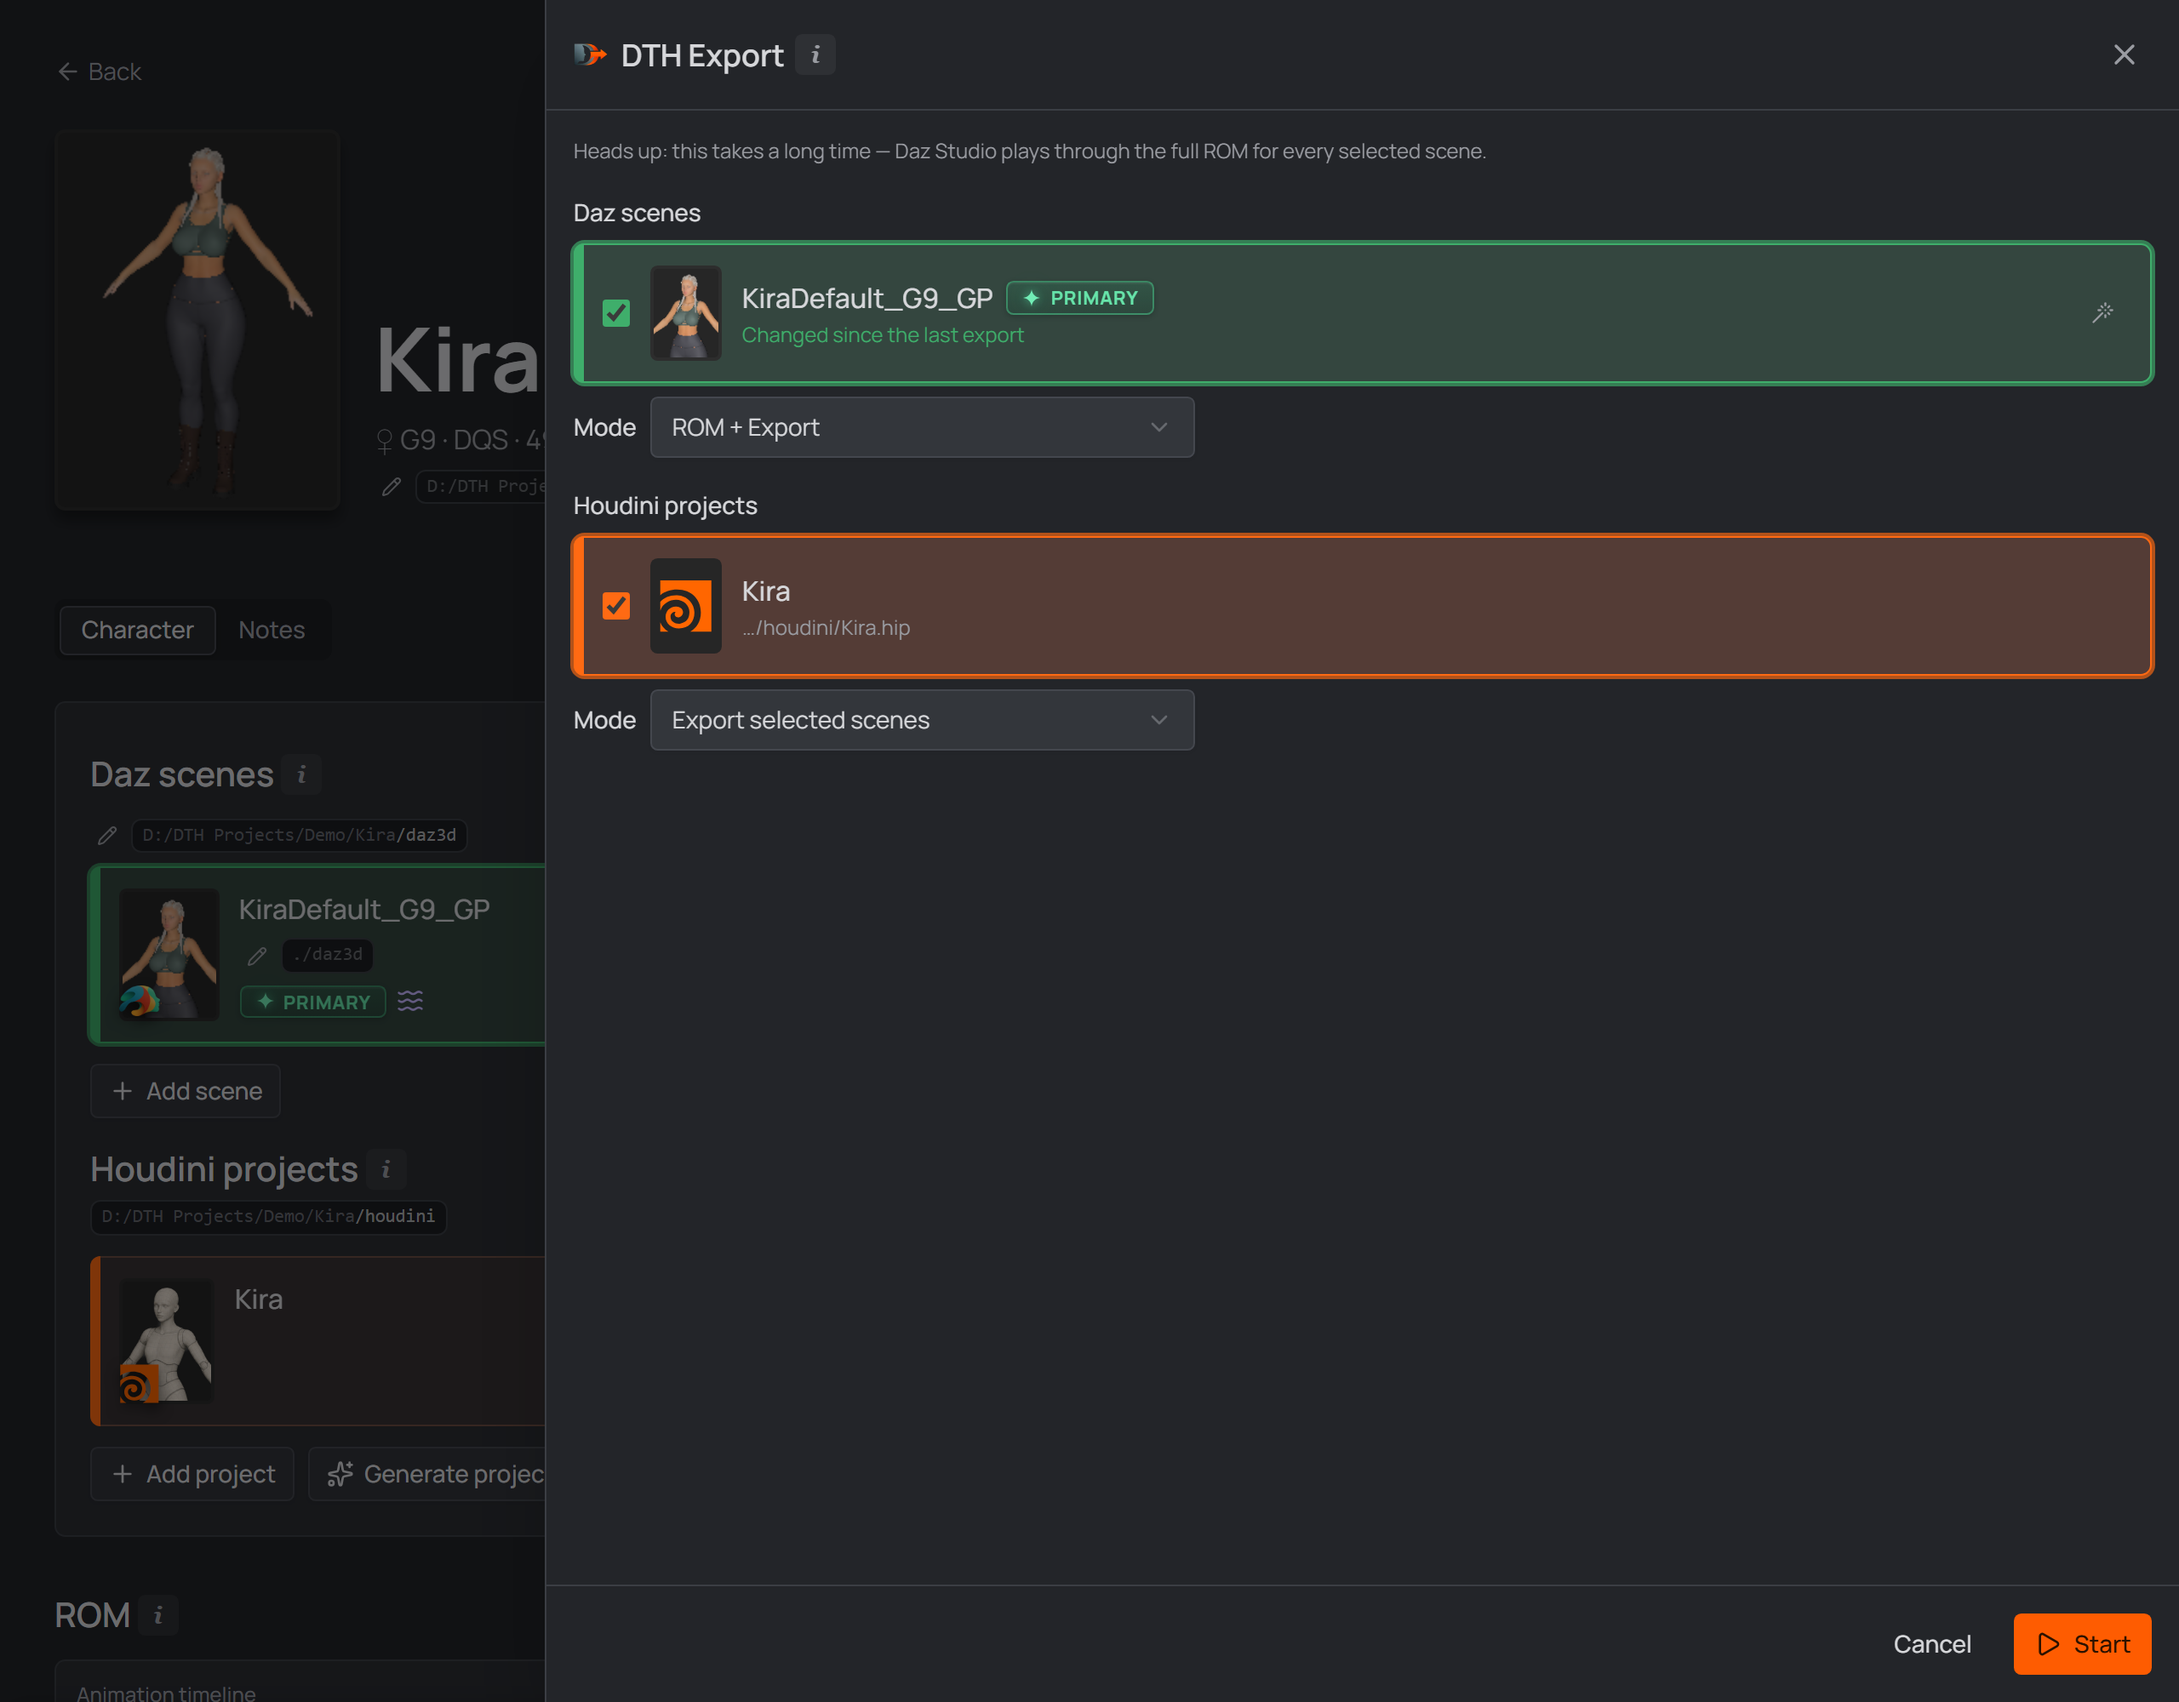
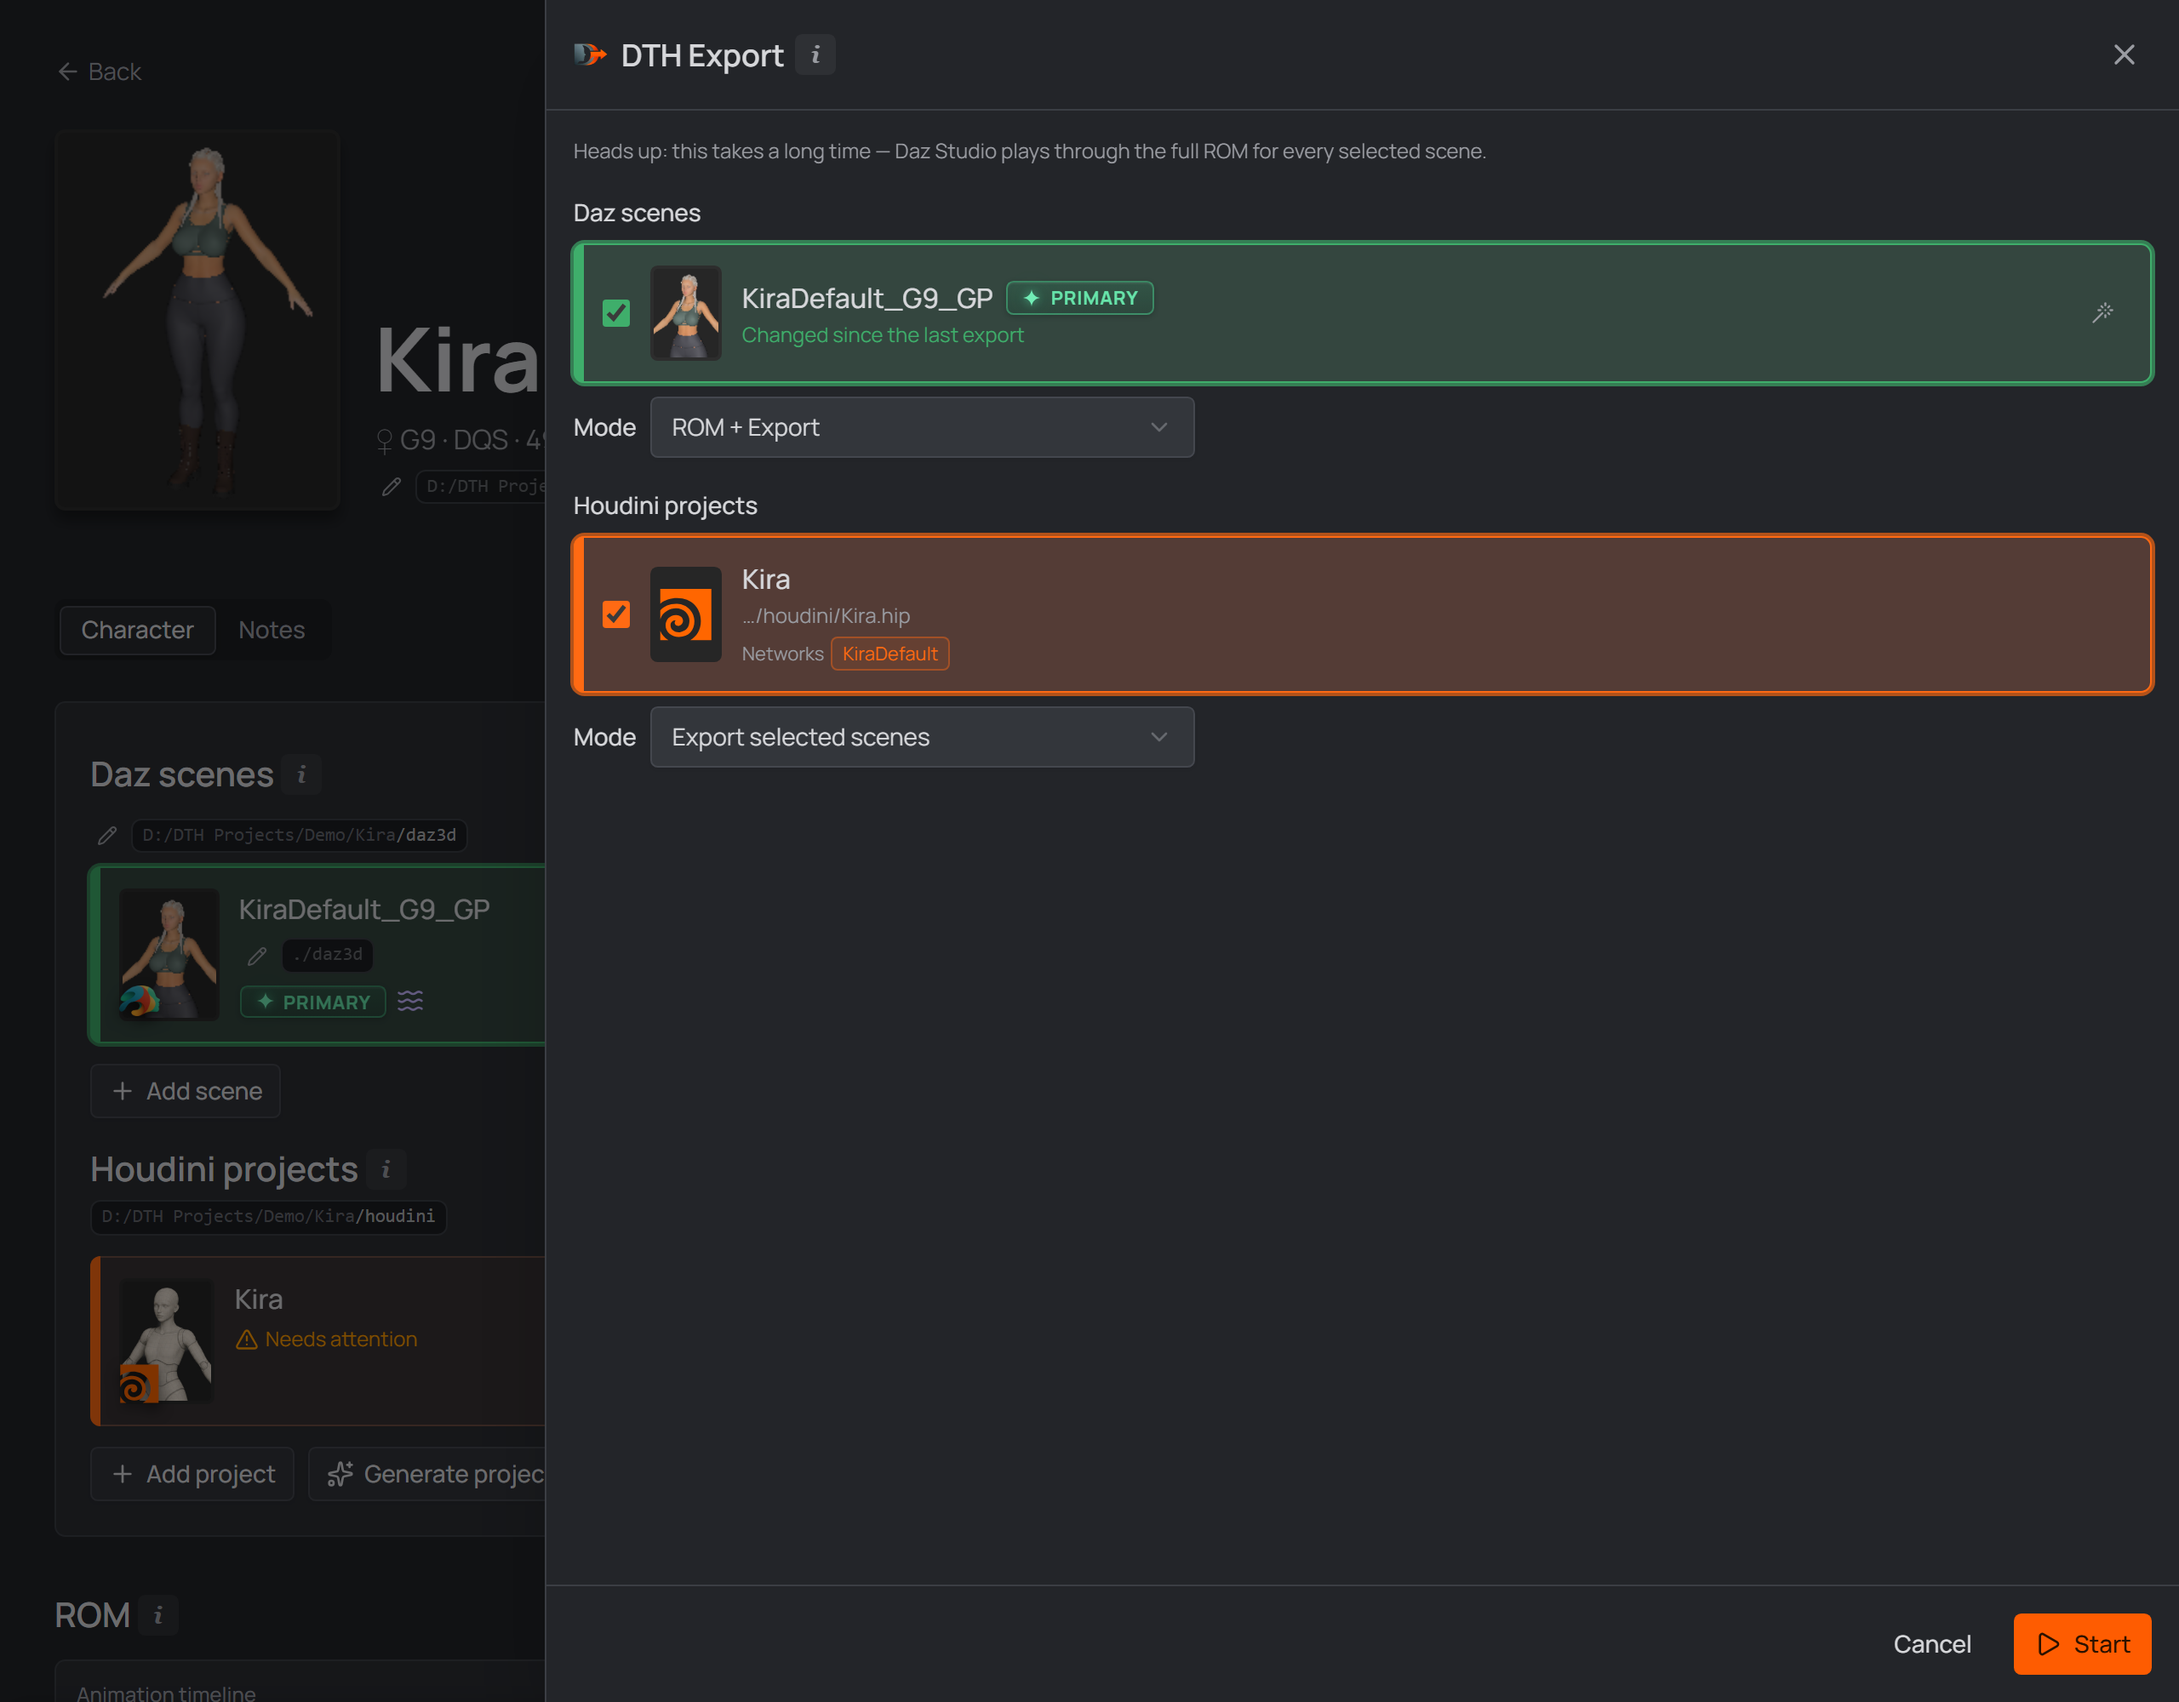
docs(guide): three features that shipped without their documentation (#956)
* docs(guide): three features that shipped without their documentation

A /refresh-docs pass over the window since the 2026-08-17 diet. 58 commits
touched apps/packages without touching the guide; five turned out to be
user-visible and undocumented, and three of those were picked to document.

- **"Hair items only"** (#925) — `dth-export.md`'s Mode table listed four modes
  and this one had simply never been given its row. One row, matching the four
  beside it.
- **The export panel's network chips** (#938) — a Houdini row's **Networks**
  chips name the export sets that project writes, and the Unreal rows chip the
  **Characters** they would receive. The part worth the words is the empty case:
  an unscanned project shows no chips, which means *not known*, not "writes
  nothing" — without that it reads as a bug.
- **Timeline (range)** (#914) — a row in `houdini-project-checks.md`'s checks
  table beside the existing Timeline (FPS) row. The guide covered the FPS and
  said nothing about the playbar range the studio now sets from the Alembic and
  validates afterwards.

The screenshot above the chips paragraph did not show any chips: the shot seeds
no Houdini scan, so it captured bare project rows and would have contradicted
the prose under it. `dth-export-panel` now seeds a scanned project (through the
`materialExportSets` field #951 added to the fake) and waits for the chip rather
than assuming the scan beat the click.
[…]

Changed region(s): [[0.25, 0.31, 1.0, 0.434], [0.125, 0.775, 0.1875, 0.806]]

diff --git a/apps/web/smoke/guide.screenshots.ts b/apps/web/smoke/guide.screenshots.ts
@@ -646,7 +646,30 @@ test('dth-export-panel', async ({ page }) => {
   // A configured Daz install folder lets the panel's Runner-update check
   // settle open (the fake holds no readable install, and an unreadable Runner
   // state deliberately never blocks exporting).
-  await openCharacter(page, { dazInstallFolder: 'C:/Program Files/DAZ 3D/DAZStudio6' })
+  //
+  // The project row's export-set CHIPS need a SCANNED project, and the fake only
+  // answers a scan when it is told what the `.hip` writes — so the seed is built
+  // here rather than through `openCharacter`. The panel joins the sweep when it
+  // finds fewer scanned projects than linked ones (#951), so the shot waits for
+  // the chip itself rather than assuming the scan beat the click.
+  const seed = buildSeed({
+    demo: true,
+    activeProjectFile: P.dcsp,
+    dazInstallFolder: 'C:/Program Files/DAZ 3D/DAZStudio6',
+  })
+  const settingsPath = `${P.appData}/settings.json`
+  // A scan is an hython run, so it needs somewhere to run it.
+  seed.files[settingsPath] = JSON.stringify({
+    ...JSON.parse(seed.files[settingsPath] ?? '{}'),
+    houdiniInstallFolder: HOUDINI_INSTALL,
+    houdiniDocsFolder: HOUDINI_DOCS,
+  })
+  seed.files[`${HOUDINI_INSTALL}/bin/hython.exe`] = 'hython-exe-fixture'
+  seed.materialExportSets = { [P.houdini]: ['KiraDefault'] }
+  await prime(page, seed)
+  await page.goto('/')
+  await page.getByRole('link', { name: /Kira/ }).click()
+  await page.getByText(/custom ROM frames/).waitFor()
   await page.getByRole('button', { name: 'DTH Export' }).click()
   const panel = page.getByRole('dialog')
   // One page now: Daz scenes + their Mode, Houdini projects + theirs. Wait for
@@ -654,6 +677,8 @@ test('dth-export-panel', async ({ page }) => {
   // "changed", which is what the full run pre-checks (and what auto-selects
   // the Houdini projects).
   await panel.getByText('Changed since the last export').waitFor()
+  // …and for the scan to land, or the shot races it and captures a bare row.
+  await panel.locator('[data-set="KiraDefault"]').first().waitFor()
   await shoot(page, join(OUT, 'dth-export-panel.png'), panel)
 })
 

diff --git a/docs/guide/dth-export.md b/docs/guide/dth-export.md
@@ -33,6 +33,7 @@ what their run does:
 | **ROM + Export** | the full run — a fresh ROM, the saved ROM animation scene, and the export of everything (skeletal mesh and hair) |
 | **ROM only** | build the ROM and save the [`rom-animations` scene](./05-rom-in-daz.md#what-a-run-exports); no export |
 | **Export only** | export the saved ROM animations as they stand, without rebuilding. Pre-selects the scenes whose ROM animation is newer than their last export; skips scenes that have none |
+| **Hair items only** | export each scene's [hair items](./advanced.md#hair-items--per-scene-kept-out-of-the-export) alone, one Alembic each — no ROM, no mesh, no CSV, and no saved ROM animation needed. Lists only scenes with **Export hair items** switched on |
 | **Skip Daz — use last exports** | nothing runs in Daz — the Houdini projects work off each scene's last export on disk. Scenes that never delivered an export are kept out, and one whose export **didn't land** (a crashed run leaves a 0-byte `.dth`) is refused by name |
 
 ## Houdini projects
@@ -42,6 +43,13 @@ The character's linked projects, pre-selected whenever scenes are — so a plain
 own **Mode** is either **Export selected scenes** (the default) or **Skip Houdini
 — use last exports**, which hands the exports already on disk to the Unreal
 projects below (offered only when the studio project has a linked `.uproject`).
+
+**Each row names what that project contributes.** A Houdini row's **Networks**
+chips are the export sets it writes — a `.hip` holding two DazToHue networks
+shows two, so the size of the run is visible before you press Start. The Unreal
+rows chip the **Characters** they would receive. A project the background scan
+hasn't reached yet shows none, which means *not known* rather than "writes
+nothing" — [Rescan](./houdini-utils.md) it and the chips appear.
 
 **The project list follows the scene selection.** Untick a Daz scene and the
 projects that only import *that* scene leave the run with it — matched on the

diff --git a/docs/guide/houdini-project-checks.md b/docs/guide/houdini-project-checks.md
@@ -21,6 +21,7 @@ sit in the footer, in the order they have to be run.
 | --- | --- | --- |
 | **Project folder (`$JOB`)** | `$JOB` is saved *inside* each `.hip`, so a project keeps whatever it was created with. It is what reaches the character's **`export/`** folder, so a project carrying another character's `$JOB` aims its finals at that character's tree. | Repair project settings |
 | **Timeline (FPS)** | The ROM is one pose per frame at **30 fps**, the rate the CSV's frame numbers mean; Houdini's default is 24. DazToHue's import node sets this when it *loads* files, so this row is about projects where that never happened. | Repair project settings |
+| **Timeline (range)** | The playbar next to what the project's own Alembic says it should be. A scene left on Houdini's default 1–240 over a longer ROM puts part of it outside the timeline. | Repair project settings |
 | **PoseAsset CSV path** | A read-out: *filled in*, *not filled in*, or *your DazToHue has no such parameter*. | Fill network |
 | **Reference paths** / **Import references** | What is already written down, and whether it resolves. | Make paths portable |
 | **Baker textures** | Material baker layer textures whose file is no longer on disk — usually an uninstalled Daz product. **Nothing to press**: putting the file back is a reinstall. | — |

diff --git a/.changeset/hungry-crabs-invite.md b/.changeset/hungry-crabs-invite.md
@@ -1,0 +1,2 @@
+---
+---
